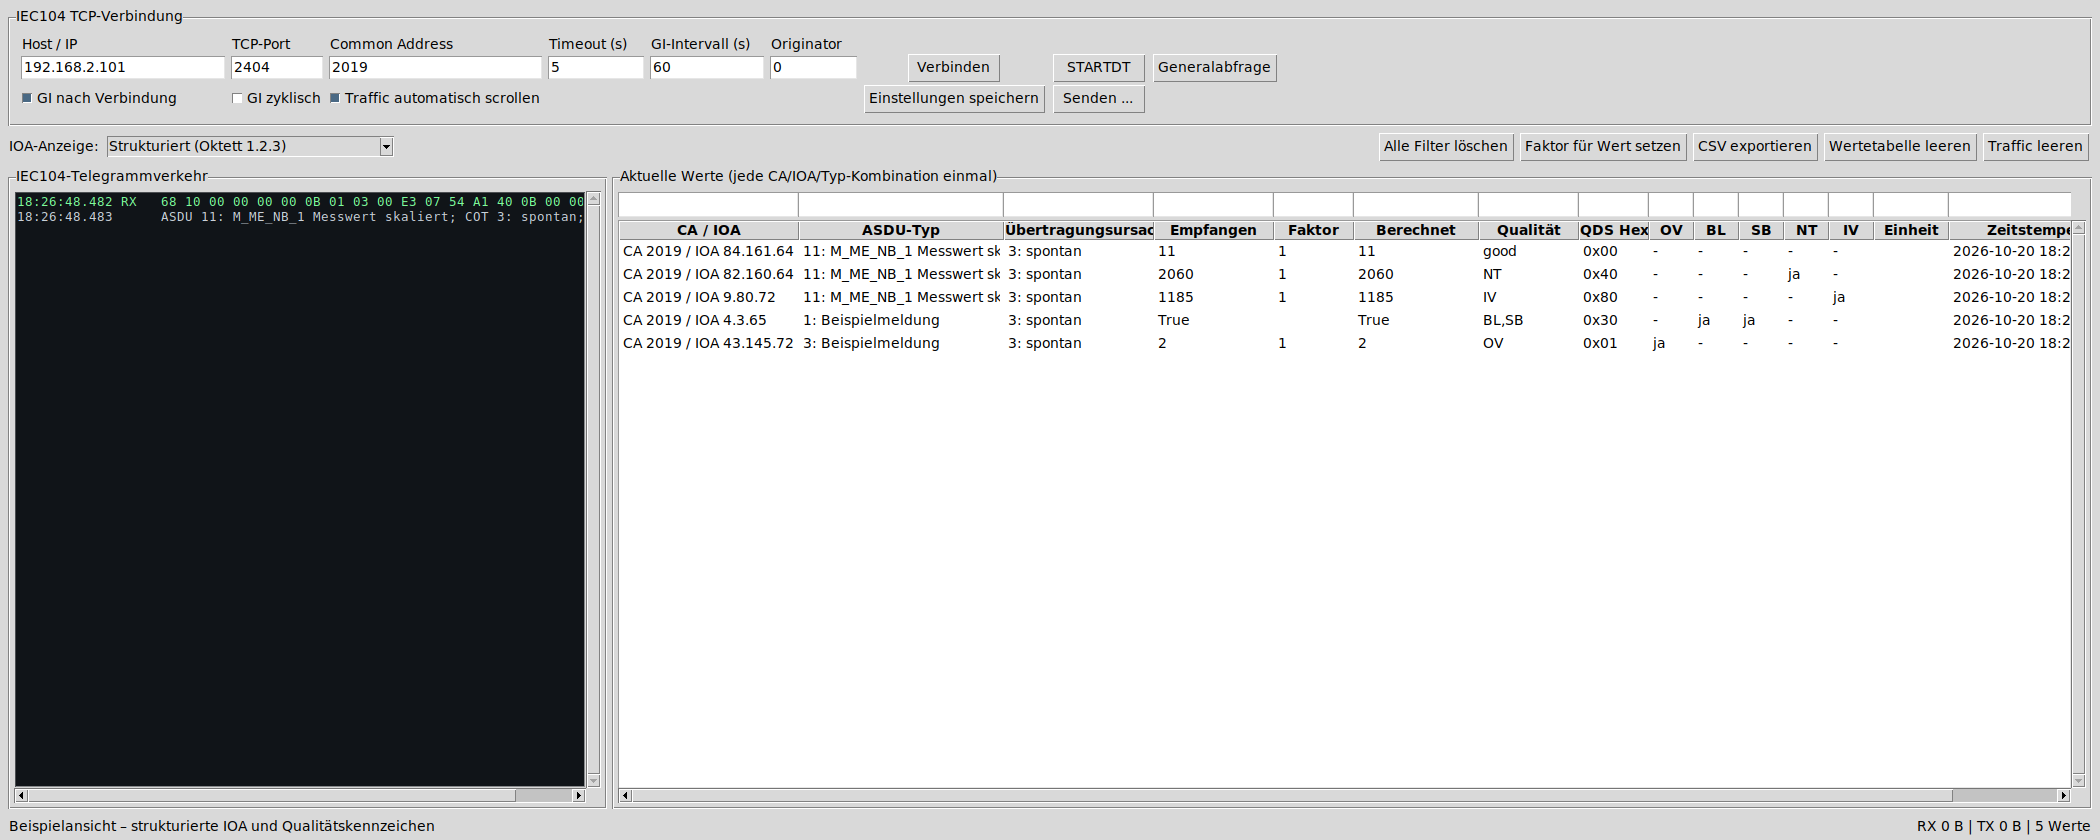
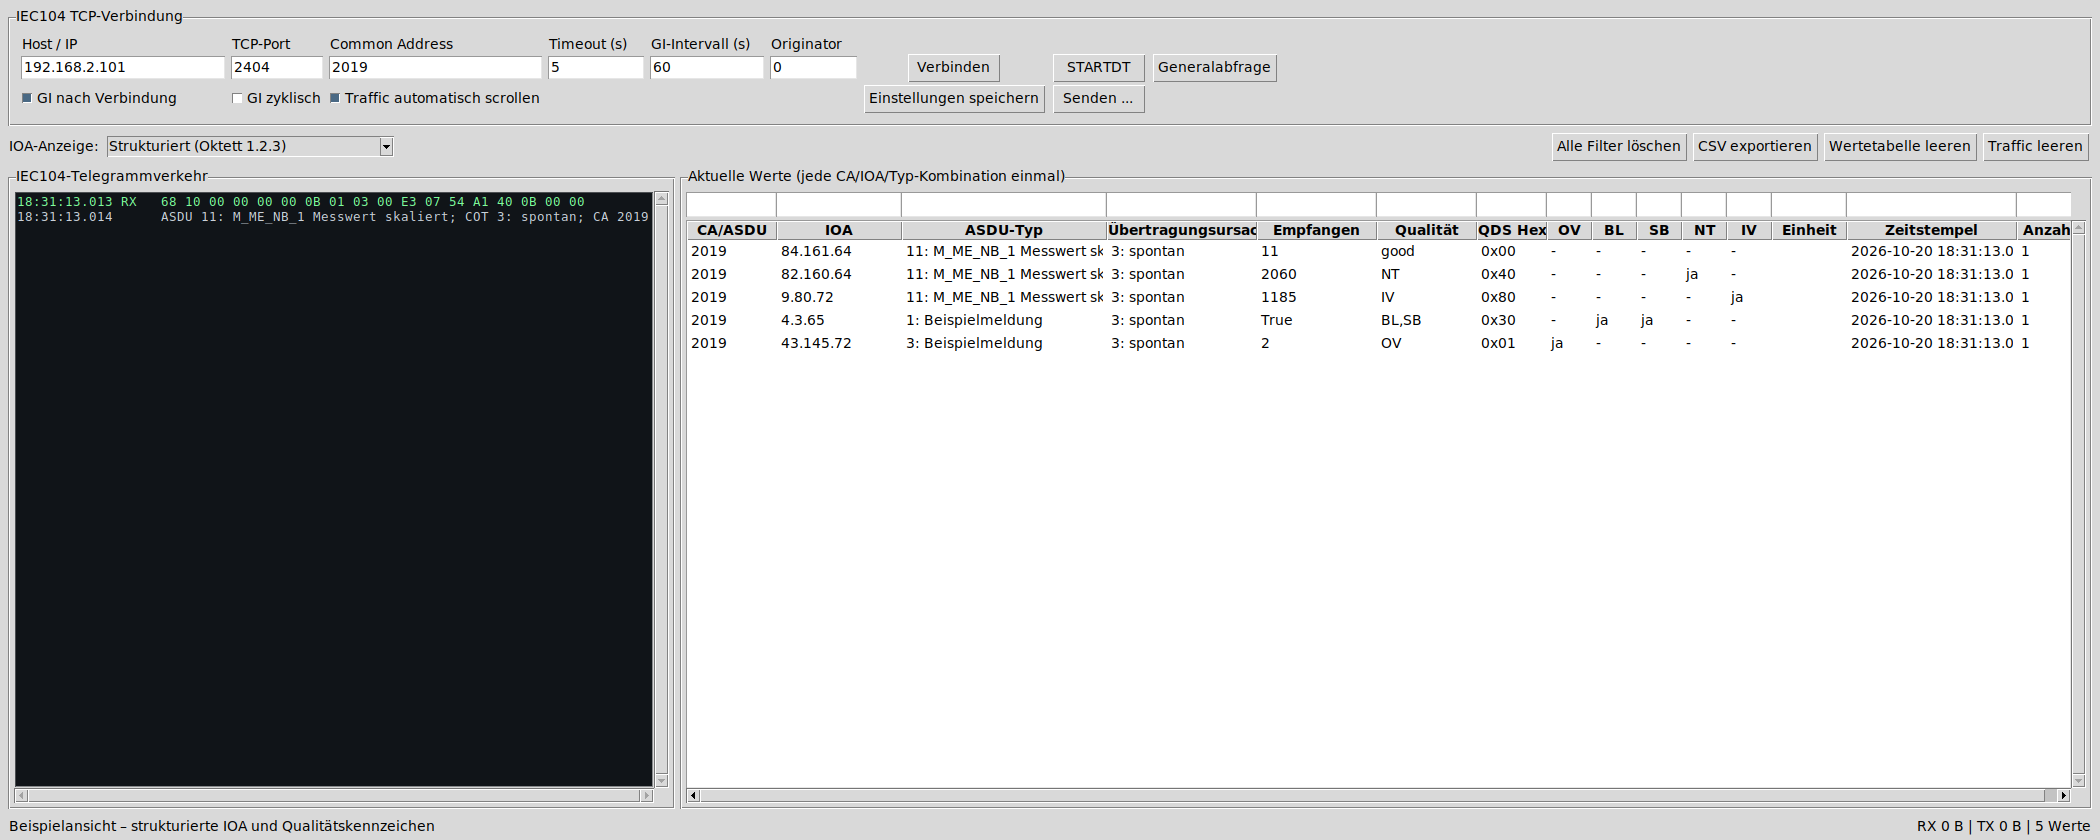
Simplify value table and separate CA from IOA

diff --git a/app.py b/app.py
@@ -9,7 +9,7 @@ from pathlib import Path
 import queue
 import sys
 import tkinter as tk
-from tkinter import filedialog, messagebox, simpledialog, ttk
+from tkinter import filedialog, messagebox, ttk
 
 from iec104.protocol import COT_NAMES, TYPE_NAMES, build_command, decode_asdu, format_ioa, hex_bytes
 from iec104.send_dialog import SendDialog
@@ -37,9 +37,7 @@ class ReaderApp(tk.Tk):
         self.events: queue.Queue = queue.Queue()
         self.worker = TCPWorker(self.events)
         self.rows: dict[str, str] = {}
-        self.row_keys: dict[str, str] = {}
         self.latest_values = {}
-        self.scaling_factors: dict[str, float] = {}
         self.column_filters: dict[str, tk.StringVar] = {}
         self.rx_bytes = 0
         self.tx_bytes = 0
@@ -108,7 +106,6 @@ class ReaderApp(tk.Tk):
         ttk.Button(toolbar, text="Traffic leeren", command=self.clear_traffic).pack(side=tk.RIGHT, padx=3)
         ttk.Button(toolbar, text="Wertetabelle leeren", command=self.clear_values).pack(side=tk.RIGHT, padx=3)
         ttk.Button(toolbar, text="CSV exportieren", command=self.export_csv).pack(side=tk.RIGHT, padx=3)
-        ttk.Button(toolbar, text="Faktor für Wert setzen", command=self.set_selected_factor).pack(side=tk.RIGHT, padx=3)
         ttk.Button(toolbar, text="Alle Filter löschen", command=self.clear_table_filters).pack(side=tk.RIGHT, padx=3)
         ttk.Label(toolbar, text="IOA-Anzeige:").pack(side=tk.LEFT, padx=(0, 4))
         self.ioa_selector = ttk.Combobox(
@@ -137,16 +134,16 @@ class ReaderApp(tk.Tk):
         for tag, color in {"rx": "#7CFC9A", "tx": "#79B8FF", "error": "#FF7B72", "meta": "#C9D1D9"}.items():
             self.traffic.tag_configure(tag, foreground=color)
 
-        columns = ("address", "type", "cot", "received", "factor", "calculated", "quality", "qraw",
+        columns = ("common_address", "ioa", "type", "cot", "received", "quality", "qraw",
                    "ov", "bl", "sb", "nt", "iv", "unit", "timestamp", "count")
         headings = {
-            "address": "CA / IOA", "type": "ASDU-Typ", "cot": "Übertragungsursache",
-            "received": "Empfangen", "factor": "Faktor", "calculated": "Berechnet",
+            "common_address": "CA/ASDU", "ioa": "IOA", "type": "ASDU-Typ", "cot": "Übertragungsursache",
+            "received": "Empfangen",
             "quality": "Qualität", "qraw": "QDS Hex", "ov": "OV", "bl": "BL", "sb": "SB",
             "nt": "NT", "iv": "IV", "unit": "Einheit", "timestamp": "Zeitstempel", "count": "Anzahl",
         }
-        widths = {"address": 180, "type": 205, "cot": 150, "received": 120, "factor": 80,
-                  "calculated": 125, "quality": 100, "qraw": 70, "ov": 45, "bl": 45,
+        widths = {"common_address": 90, "ioa": 125, "type": 205, "cot": 150, "received": 120,
+                  "quality": 100, "qraw": 70, "ov": 45, "bl": 45,
                   "sb": 45, "nt": 45, "iv": 45, "unit": 75, "timestamp": 170, "count": 65}
         self.table = ttk.Treeview(values_frame, columns=columns, show="headings")
         for name in columns:
@@ -163,7 +160,6 @@ class ReaderApp(tk.Tk):
             x += widths[name]
             variable.trace_add("write", lambda *_args: self.apply_table_filter())
         self.filter_canvas.configure(scrollregion=(0, 0, x, 27))
-        self.table.bind("<Double-1>", self.set_selected_factor)
         table_y = ttk.Scrollbar(values_frame, orient=tk.VERTICAL, command=self.table.yview)
         table_x = ttk.Scrollbar(values_frame, orient=tk.HORIZONTAL, command=self.scroll_value_table)
         self.table.configure(yscrollcommand=table_y.set, xscrollcommand=lambda first, last: self.sync_table_scroll(table_x, first, last))
@@ -338,15 +334,10 @@ class ReaderApp(tk.Tk):
 
     def update_value(self, value, timestamp: str, increment: bool = True) -> None:
         rendered = str(value.value)
-        numeric = isinstance(value.value, (int, float)) and not isinstance(value.value, bool)
-        factor = self.scaling_factors.get(value.key, 1.0) if numeric else None
-        calculated = self.format_number(float(value.value) * factor) if numeric else rendered
-        factor_text = self.format_number(factor) if numeric else ""
         quality_raw = value.quality_raw
-        address = f"CA {value.common_address} / IOA {format_ioa(value.ioa, self.ioa_is_structured())}"
         flag = lambda mask: "ja" if quality_raw & mask else "-"
-        row = (address, f"{value.type_id}: {value.type_name}",
-               f"{value.cause}: {value.cause_name}", rendered, factor_text, calculated,
+        row = (str(value.common_address), format_ioa(value.ioa, self.ioa_is_structured()),
+               f"{value.type_id}: {value.type_name}", f"{value.cause}: {value.cause_name}", rendered,
                value.quality, f"0x{quality_raw:02X}", flag(0x01), flag(0x10), flag(0x20),
                flag(0x40), flag(0x80), value.unit, timestamp, 1)
         current = self.rows.get(value.key)
@@ -358,7 +349,6 @@ class ReaderApp(tk.Tk):
         else:
             current = self.table.insert("", 0, values=row)
             self.rows[value.key] = current
-            self.row_keys[current] = value.key
         self.latest_values[value.key] = (value, timestamp)
         self.apply_table_filter()
 
@@ -371,27 +361,6 @@ class ReaderApp(tk.Tk):
         self.save_settings(silent=True)
         mode = "strukturiert" if self.ioa_is_structured() else "unstrukturiert"
         self.status.set(f"IOA-Anzeige: {mode}")
-
-    @staticmethod
-    def format_number(value: float) -> str:
-        return f"{value:.12g}"
-
-    def set_selected_factor(self, _event=None) -> None:
-        selected = self.table.selection()
-        if not selected:
-            messagebox.showinfo(APP_NAME, "Bitte zuerst einen Zahlenwert auswählen.", parent=self)
-            return
-        key = self.row_keys.get(selected[0], "")
-        latest = self.latest_values.get(key)
-        if not latest or not isinstance(latest[0].value, (int, float)) or isinstance(latest[0].value, bool):
-            messagebox.showinfo(APP_NAME, "Für diesen Wert kann kein Zahlenfaktor gesetzt werden.", parent=self)
-            return
-        factor = simpledialog.askfloat(APP_NAME, f"Faktor für {key}:\n\nBerechnet = Empfangen × Faktor",
-                                       initialvalue=self.scaling_factors.get(key, 1.0), parent=self)
-        if factor is None: return
-        self.scaling_factors[key] = factor
-        self.update_value(latest[0], latest[1], increment=False)
-        self.save_settings(silent=True)
 
     def apply_table_filter(self) -> None:
         columns = tuple(self.table["columns"])
@@ -434,7 +403,7 @@ class ReaderApp(tk.Tk):
 
     def clear_values(self) -> None:
         for item in tuple(self.rows.values()): self.table.delete(item)
-        self.rows.clear(); self.row_keys.clear(); self.latest_values.clear()
+        self.rows.clear(); self.latest_values.clear()
 
     def sort_table(self, column: str, reverse: bool) -> None:
         rows = [(self.table.set(item, column).casefold(), item) for item in self.table.get_children("")]
@@ -459,7 +428,6 @@ class ReaderApp(tk.Tk):
             "originator_address": self.originator_address,
             "ioa_display": self.ioa_display,
         }.items()}
-        result["scaling_factors"] = self.scaling_factors
         return result
 
     def save_settings(self, silent: bool = False) -> None:
@@ -479,9 +447,6 @@ class ReaderApp(tk.Tk):
             variables.update({"originator_address": self.originator_address, "ioa_display": self.ioa_display})
             for key, variable in variables.items():
                 if key in values: variable.set(values[key])
-            factors = values.get("scaling_factors", {})
-            if isinstance(factors, dict):
-                self.scaling_factors = {str(k): float(v) for k, v in factors.items() if isinstance(v, (int, float))}
         except (OSError, ValueError) as error:
             if not silent: messagebox.showerror(APP_NAME, str(error), parent=self)
 

diff --git a/README.md b/README.md
@@ -1,7 +1,7 @@
 # IEC104 Reader für Windows
 
 Portable grafische Anwendung zum Lesen, Analysieren und kontrollierten Senden von IEC 60870-5-104 über TCP/IP.
-https://github.com/TheBam1990/IEC104-Reader/releases/tag/v1.2.0
+https://github.com/TheBam1990/IEC104-Reader/releases/tag/v1.3.0
 
 ## Oberfläche
 
@@ -18,10 +18,9 @@ https://github.com/TheBam1990/IEC104-Reader/releases/tag/v1.2.0
 - automatische Antwort auf TESTFR
 - vollständige RX-/TX-Anzeige in Hexadezimaldarstellung
 - Sitzungslog `IEC104-Telegrammverkehr.txt` neben der EXE; wird bei jedem Start neu begonnen
-- Wertetabelle mit CA, IOA, ASDU-Typ, Übertragungsursache, Empfangswert, Qualität und Zeitstempel
+- Wertetabelle mit getrennten Spalten für CA/ASDU und IOA sowie ASDU-Typ, Übertragungsursache, Empfangswert, Qualität und Zeitstempel
 - umschaltbare IOA-Darstellung: unstrukturiert dezimal oder strukturiert als Oktett 1.2.3
 - Qualitätskennzeichen einzeln sichtbar und filterbar: OV, BL, SB, NT und IV sowie rohes QDS-Byte
-- Faktor pro Zahlenwert; Originalwert und berechneter Wert bleiben gleichzeitig sichtbar
 - eigenes Live-Filterfeld über jeder Tabellenspalte; mehrere Filter wirken gemeinsam
 - CSV-Export der aktuell sichtbaren Tabellenzeilen
 - platzsparende Sendezentrale in einem eigenen Dialogfenster
